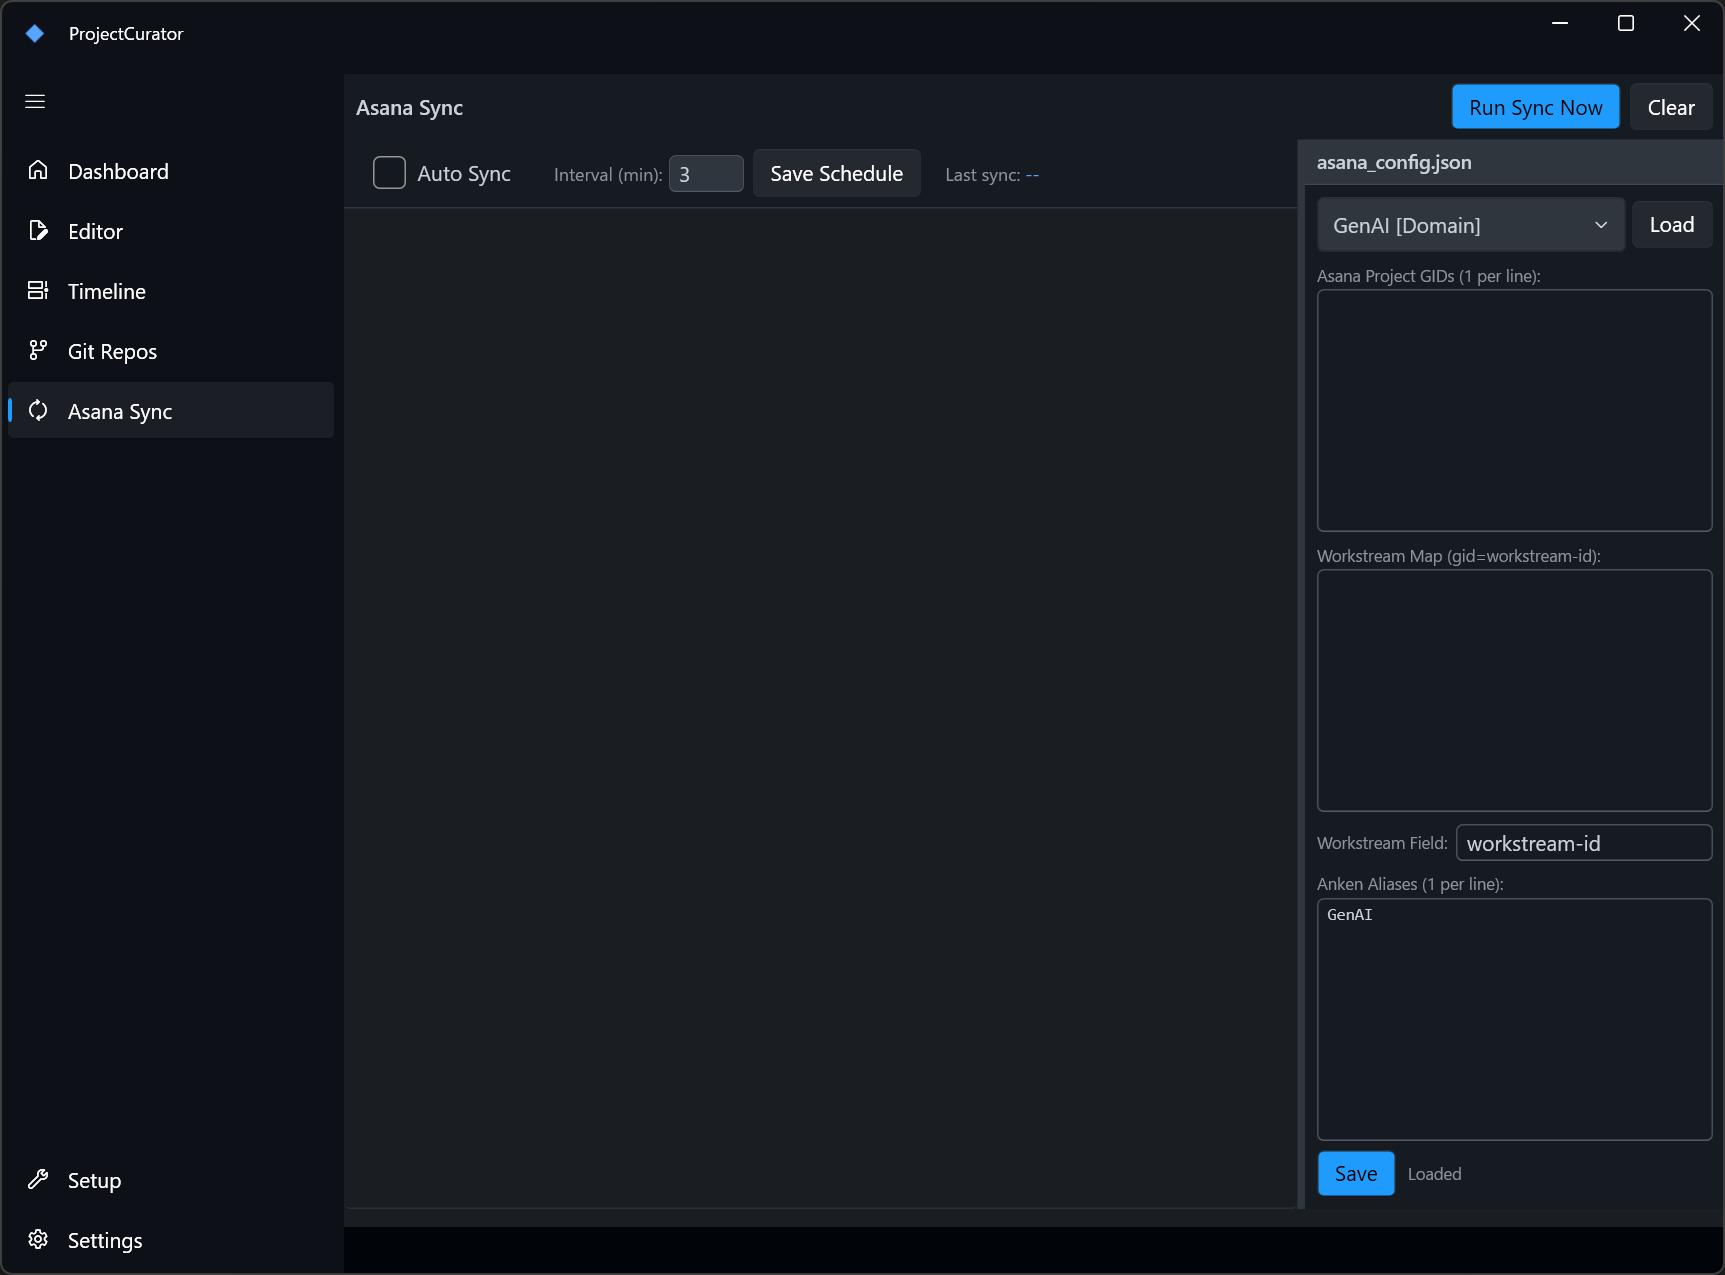
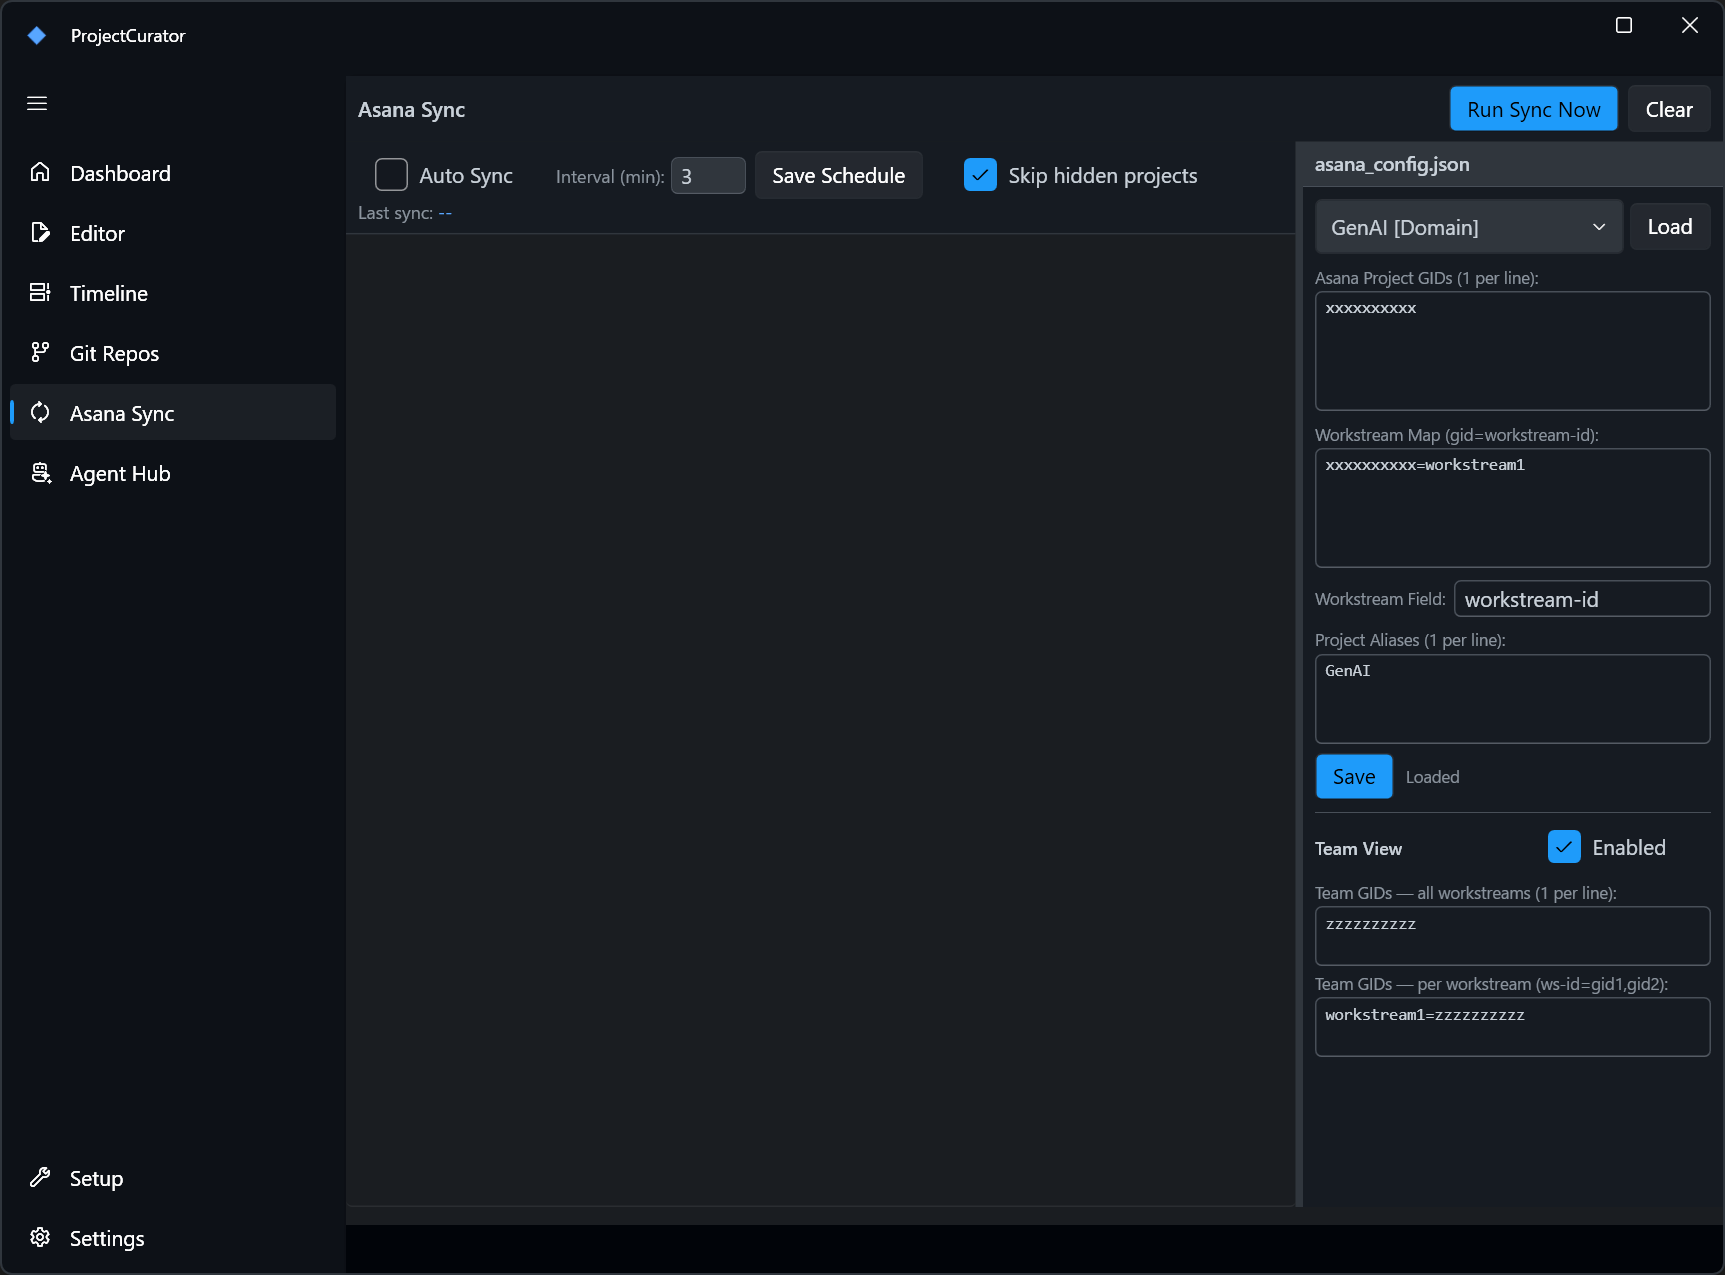
docs: expand Asana sync setup guidance and UI notes

diff --git a/Views/Pages/AsanaSyncPage.xaml b/Views/Pages/AsanaSyncPage.xaml
@@ -166,11 +166,11 @@
                     <!-- Team View トグル -->
                     <RowDefinition Height="Auto"/>
                     <!-- Team GIDs ラベル -->
-                    <RowDefinition Height="60"/>
+                    <RowDefinition Height="Auto"/>
                     <!-- Team GIDs テキストボックス -->
                     <RowDefinition Height="Auto"/>
                     <!-- Team Workstream GIDs ラベル -->
-                    <RowDefinition Height="60"/>
+                    <RowDefinition Height="Auto"/>
                     <!-- Team Workstream GIDs テキストボックス -->
                 </Grid.RowDefinitions>
 
@@ -351,6 +351,7 @@
                 <TextBox Grid.Row="13"
                          Text="{Binding TeamViewProjectGids, UpdateSourceTrigger=PropertyChanged}"
                          AcceptsReturn="True"
+                         MinHeight="40"
                          TextWrapping="NoWrap"
                          ScrollViewer.VerticalScrollBarVisibility="Auto"
                          FontFamily="Consolas, Courier New"
@@ -376,6 +377,7 @@
                 <TextBox Grid.Row="15"
                          Text="{Binding TeamViewWorkstreamGids, UpdateSourceTrigger=PropertyChanged}"
                          AcceptsReturn="True"
+                         MinHeight="40"
                          TextWrapping="NoWrap"
                          ScrollViewer.VerticalScrollBarVisibility="Auto"
                          FontFamily="Consolas, Courier New"

diff --git a/docs/asana-setup.md b/docs/asana-setup.md
@@ -91,25 +91,71 @@ If tasks do not appear:
 
 ![](../_assets/AsanaSync.png)
 
-Left panel (sync controls):
+Left panel (Sync Controls):
 
-- Auto Sync checkbox and interval setting (in hours)
-- Save Schedule to persist the schedule
-- Run Sync Now to execute a one-time sync immediately
-- Clear button to reset sync state
-- Last sync timestamp displayed for reference
+- **Auto Sync**: If checked, the app performs background synchronization periodically while running. The interval is specified in hours.
+- **Save Schedule**: Saves the background sync schedule.
+- **Run Sync Now**: Executes a one-time synchronization immediately.
+- **Clear**: Resets the sync cache and status.
 
-Right panel (per-project config):
+Right panel (Per-Project Config):
 
-- Project selector dropdown (e.g. GenAi [Domain]) with Load button
-- Asana Project GIDs: one GID per line to specify which Asana projects to sync
-- Workstream Map: maps `gid` to `workstream-id` for routing tasks to the correct workstream folder
-- Workstream Field: the custom field name in Asana used to identify the workstream
-- Project Aliases: aliases used to match Asana custom field to this project (one per line)
-- Team View: optional section to enable the team task dashboard. Set `enabled: true` and list `project_gids` (Asana project GIDs whose assignees form the team). Use `workstream_project_gids` to specify different GID sets per workstream.
-- Save button to persist the per-project `asana_config.json`
+Configure the `asana_config.json` for each project.
+
+- **Asana Project GIDs**: Enter the GIDs of the Asana projects belonging to this local project, one per line.
+  - All tasks from these projects will be synced to the project's `asana-tasks.md`.
+- **Workstream Map**: Map Asana Project GIDs to Workstream IDs.
+  - Format: `gid=workstream-id` (e.g., `123456789=development`)
+  - Separators such as `=`, `:`, and `->` are supported.
+  - This allows tasks from specific Asana projects to be routed to `workstreams/<id>/asana-tasks.md` instead of the project root.
+- **Workstream Field**: The name of the Asana custom field used to specify a Workstream ID directly on each task.
+  - Default is `workstream-id`.
+  - **This takes precedence over Workstream Map.** If a task has this custom field set, its value is used as the Workstream ID.
+- **Project Aliases**: Aliases used to "distribute" tasks from personal projects to this project.
+  - This is used when fetching tasks from `Personal Project GIDs` configured in `Settings`.
+  - If the value of the `Project` (or `案件`) custom field in Asana matches the local project name or any alias listed here, the task is imported as a task for this project.
+- **Team View**: Configuration for generating `team-tasks.md`, which visualizes the task status of team members.
+  - `enabled: true`: Enables the feature.
+  - `project_gids`: A list of Asana Project GIDs from which team tasks are collected.
+  - `workstream_project_gids`: Used when you want to collect tasks from different projects for each workstream (keyed by Workstream ID).
+  - When synced, a list of incomplete tasks for each member (excluding yourself) is output to `team-tasks.md`.
+- **Save**: Saves the configuration to the project directory's `asana_config.json`.
+
+## Configuration File Example (asana_config.json)
+
+The actual file saved by the UI looks like this:
+
+```json
+{
+  "asana_project_gids": [
+    "1200000000000001"
+  ],
+  "anken_aliases": [
+    "MyProj",
+    "ShortName"
+  ],
+  "workstream_project_map": {
+    "1200000000000002": "design",
+    "1200000000000003": "api"
+  },
+  "workstream_field_name": "ws-id",
+  "team_view": {
+    "enabled": true,
+    "project_gids": [
+      "1200000000000004"
+    ]
+  }
+}
+```
 
 ## Config File Locations
 
 Global Asana values are stored in the config directory (`%USERPROFILE%\.projectcurator\asana_global.json` by default).
-Per-project advanced settings are stored in `{CloudSyncProject}\asana_config.json`.
+Per-project advanced settings are stored in `asana_config.json` within each project directory under the Cloud Sync Root.
+
+Depending on the project type, the path is as follows (where `{CloudSyncRoot}` is the path configured in Settings):
+
+- Standard Project: `{CloudSyncRoot}/{ProjectName}/asana_config.json`
+- Mini Project: `{CloudSyncRoot}/_mini/{ProjectName}/asana_config.json`
+- Domain Project: `{CloudSyncRoot}/_domains/{ProjectName}/asana_config.json`
+- Domain Mini Project: `{CloudSyncRoot}/_domains/_mini/{ProjectName}/asana_config.json`
